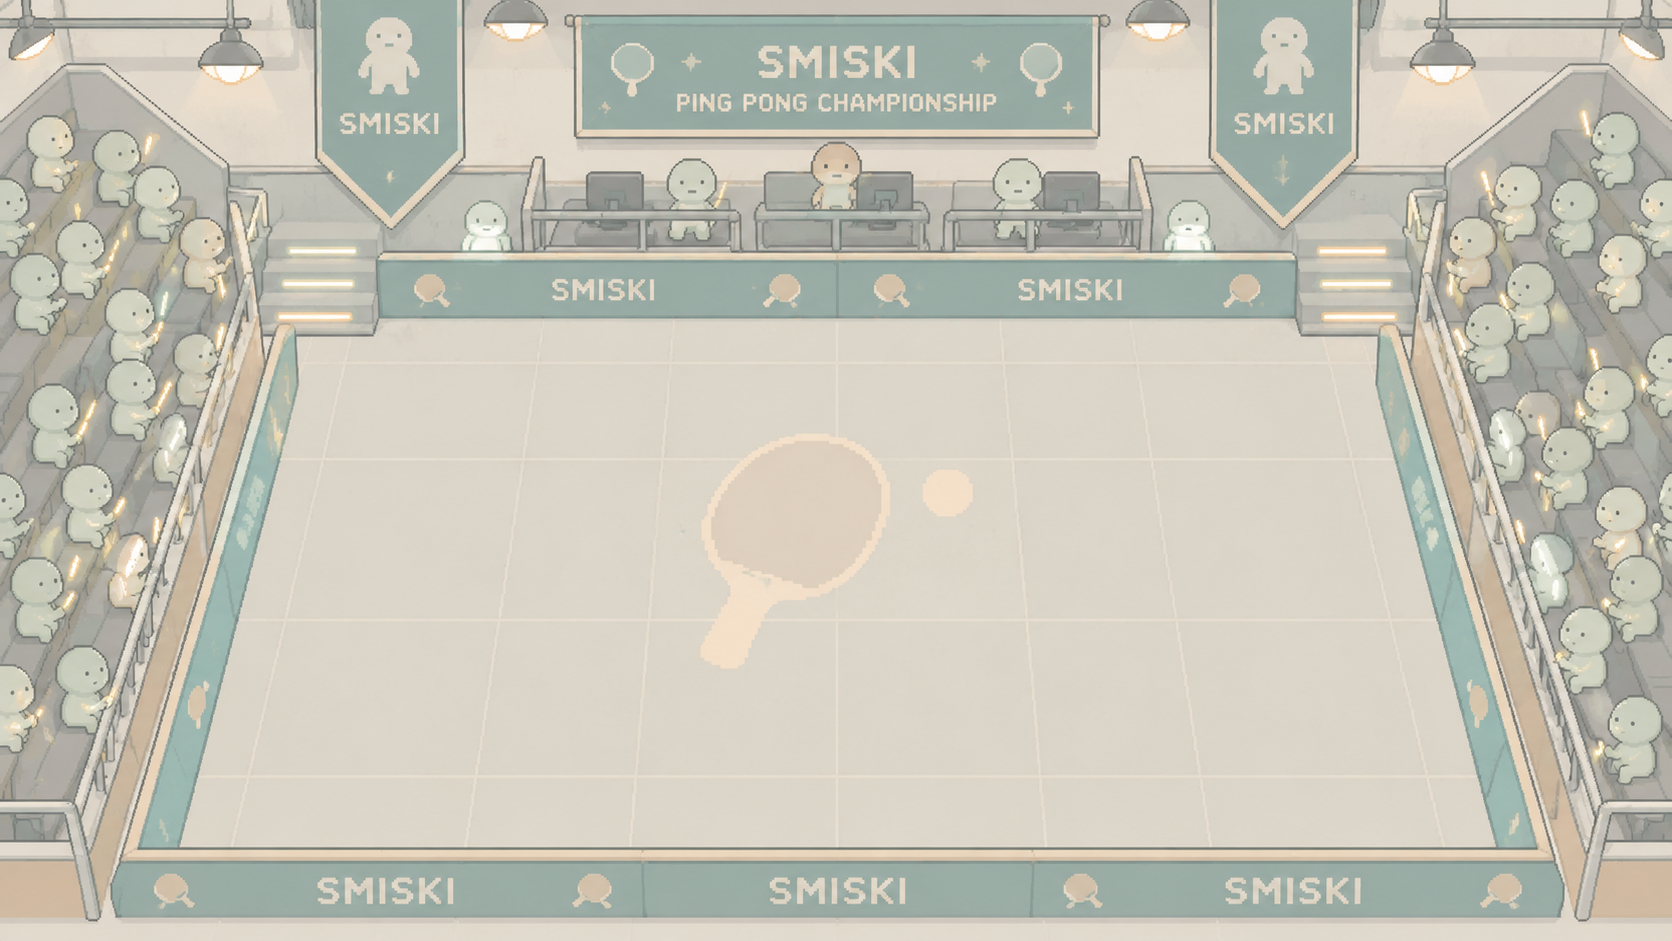
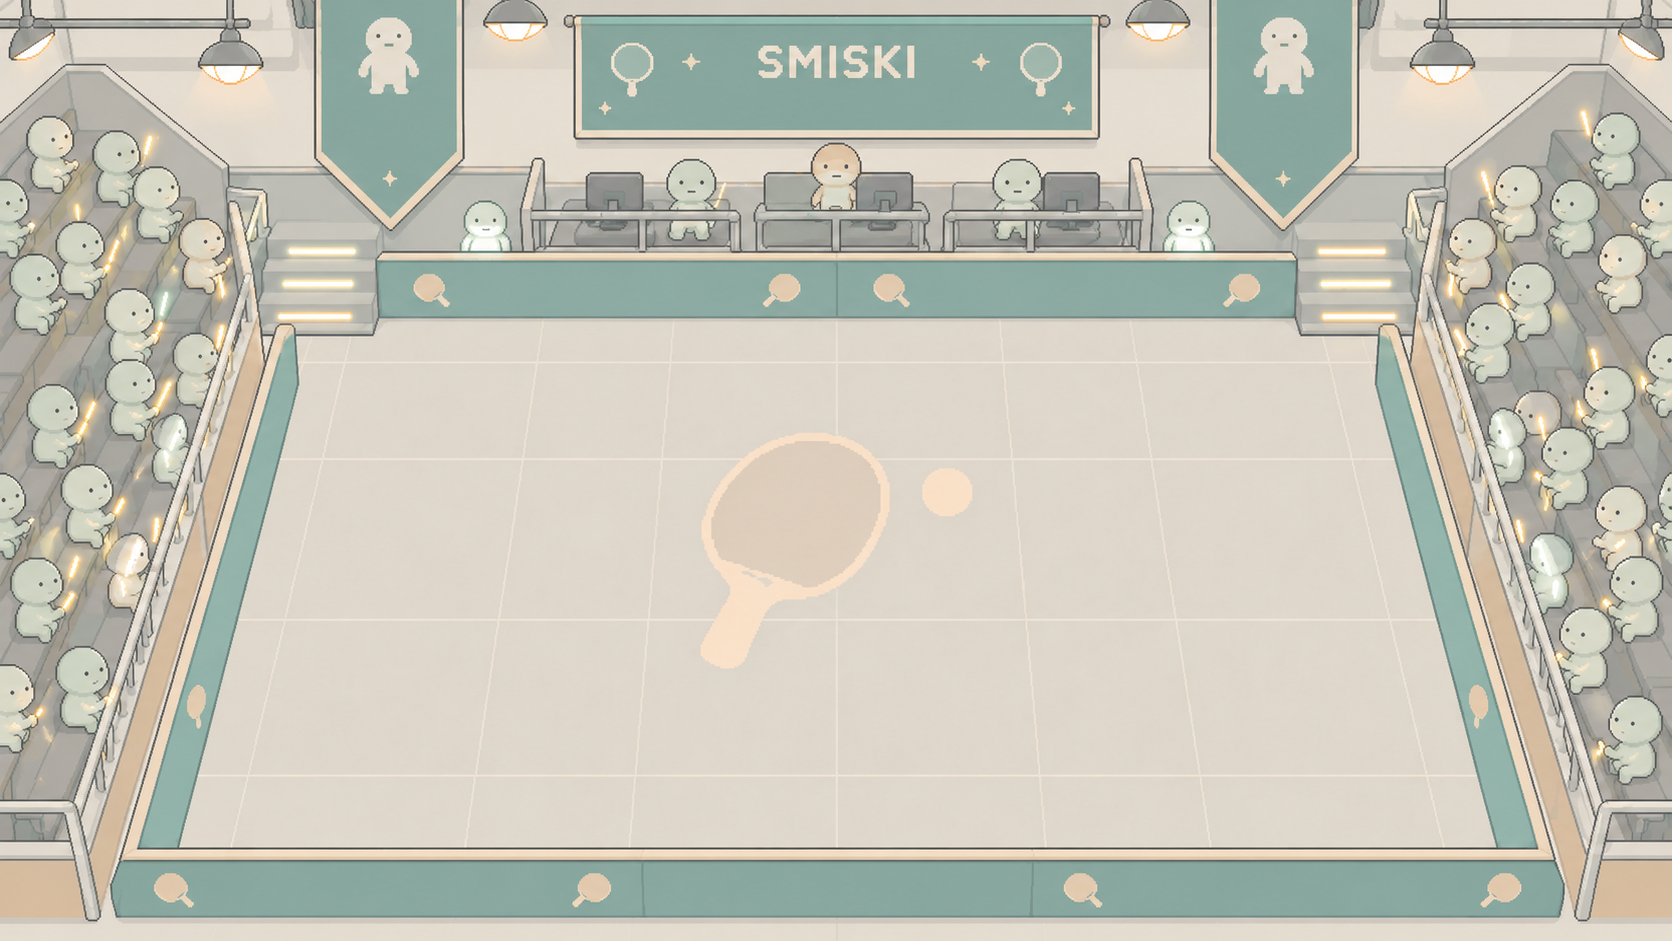
table tennis background fixes

diff --git a/web/court.js b/web/court.js
@@ -26,13 +26,13 @@ function drawRhythm(ctx, player, center, tick) {
     player.grade?.startsWith('Very') ? '#a34239' : '#945d13';
   if (feedback) {
     ctx.fillStyle = color; ctx.font = 'bold 18px system-ui';
-    ctx.fillText(player.superSmash ? 'Supersmash' : player.grade, center, 125);
+    ctx.fillText(player.superSmash ? 'Supersmash' : player.grade, center, 178);
   }
   ctx.fillStyle = '#31463c'; ctx.font = 'bold 15px system-ui';
-  ctx.fillText(player.charge === 3 ? 'Supersmash ready' : 'Smash  ' + player.charge + ' / 3', center, 465);
+  ctx.fillText(player.charge === 3 ? 'Supersmash ready' : 'Smash  ' + player.charge + ' / 3', center, 471);
   for (let i = 0; i < 3; i++) {
     ctx.fillStyle = i < player.charge ? '#d7a11e' : '#cdd5cb';
-    ctx.beginPath(); ctx.roundRect(center - 58 + i * 40, 474, 36, 9, 4); ctx.fill();
+    ctx.beginPath(); ctx.roundRect(center - 58 + i * 40, 480, 36, 9, 4); ctx.fill();
   }
 }
 
@@ -41,7 +41,7 @@ function drawCourt(ctx, state) {
   document.getElementById('tennisStadium').classList.toggle('cheering',
     hasScore && (state.pause > 0 || state.winner !== null));
   ctx.clearRect(0, 0, 760, 500);
-  ctx.fillStyle = '#b5b9af'; ctx.fillRect(379, 10, 2, 478);
+  ctx.fillStyle = '#b5b9af'; ctx.fillRect(379, 155, 2, 333);
   const travel = Math.min(1.12, state.flight / state.duration);
   const depth = state.hitter === 0 ? travel : 1 - travel;
   const lateral = state.from + (state.to - state.from) * Math.min(1, travel);
@@ -50,7 +50,7 @@ function drawCourt(ctx, state) {
     const direction = side ? -1 : 1;
     function project(x, z) {
       const d = side ? 1 - z : z;
-      return [190 + side * 380 + direction * x * (156 - 76 * d), 405 - 230 * d];
+      return [190 + side * 380 + direction * x * (156 - 76 * d), 417 - 230 * d];
     }
     function line(a, b, color, width) {
       ctx.beginPath(); ctx.moveTo(...a); ctx.lineTo(...b);

diff --git a/web/lobby.css b/web/lobby.css
@@ -472,7 +472,11 @@ body.game-host.pogo-park::before {
   grid-template-columns: 19% minmax(0, 1fr) 19%;
   column-gap: 0;
 }
-.game-host.tennis-stadium #arena { grid-column: 2; }
+.game-host.tennis-stadium #arena {
+  grid-column: 2;
+  position: relative;
+  top: clamp(-32px, -4dvh, -12px);
+}
 .game-host.tennis-stadium #gameHud {
   grid-column: 3;
   min-width: 0;

diff --git a/web/race.js b/web/race.js
@@ -331,7 +331,7 @@ function display() {
     }
     el('raceInfo').textContent = !host && !myCar() && state.winner === null ? 'Waiting for next round' : '';
     el('scores').textContent = '';
-    el('notice').textContent = state.notice;
+    el('notice').textContent = '';
     return;
   }
   const car = myCar();

diff --git a/HANDOFF.md b/HANDOFF.md
@@ -1,35 +1,32 @@
 # Smiski Bounce Party handoff
 
-## Resume here: Minigame backgrounds
+## Resume here: Polish the backgrounds and minigames
 
-The next session is for experimenting with backgrounds in Bumper Cars, Table Tennis and Pogo Race. Pogo now has a spring pixel park experiment (details below); Bumper Cars and Tennis have no new theme selected. The checkout was clean at `3e6948a` before this handoff edit. Run commands from the `hackhaven` directory and consult `AGENTS.md` for the palette and player identities.
+This handoff was updated on November 15, 2026. **This checkout is already on `alvin-background-branch` at `aafdbef` (background v1), with the polish below uncommitted.** Continue in this checkout; no additional worktree is needed. Main at `3e6948a` has the earlier visuals. Consult `AGENTS.md` for the original typography, branding and player colors.
 
-All three games share the host’s 760 × 500 canvas, `#arena`. For scenery inside the playfield, draw it immediately after the renderer clears the canvas. For scenery around the playfield, look at `body.in-match::before` in `web/lobby.css`. That rule also covers calibration and phone controllers. Scope changes to the host and the intended game if those screens should keep their ivory background. Home and lobby already have a bedroom backdrop.
+Start with a host playthrough from countdown to results and back to the lobby. The earlier checks covered simulation rules and some layout calculations. The latest visual changes still need an in-game check, especially at the 1263 × 631 host size used for feedback.
 
-| Game | Where to experiment | What to check in play |
+| Game | Current design on the background branch | What to check next |
 | --- | --- | --- |
-| Bumper Cars | `web/race.js`: `paintTrampoline()` builds a cached surface. Add static scenery before the trampoline legs and rim, or draw moving scenery in `draw()` before compositing the trampoline. | The rim, blue nitro plume and ring-out marker should stay visible. |
-| Table Tennis | `web/court.js`: `drawCourt()` draws the center divider and two views of the same court. Paint the backdrop before the divider. | Follow the ball and Supersmash flame on both halves and check the timing labels. |
-| Pogo Race | `web/pogo.js`: `drawTrack()` paints the shared spring park SVG, animated birds and scrolling stone lanes before riders. Use its camera mapping for scenery anchored to the course. | Check a spread-out four-player race, Burst wind trails, distance signs and the finish flag. |
+| Pogo Race | One spring Central Park scene with flying birds, Bow Bridge and full-width cobblestone lanes. Both bridge approach paths were removed. Rounded distance signs enter beside the leaderboard. Rider names sit 4 px from the left edge. Art lives in `web/park-backdrop.svg`, layout in `web/lobby.css` and `web/pogo.js`. | Try two and four riders through a Burst and the finish. Watch the first lane against the lake as the window resizes, names during jumps, and signs at the leaderboard edge. |
+| Table Tennis | The supplied championship image is `web/tennis-stadium.png`. The two court views sit between the stands. Usernames sit on the pale floor above each table. Spectators bob during rallies and cheer on points. See `web/court.js` and `web/lobby.css`. | Play a point with two phones. Check name clearance, timing feedback, ball visibility and crowd motion, including reduced motion. |
+| Bumper Cars | The trampoline sits on a 16:9 grass field with small, irregular patches and lighter grass behind the title. Its 76 px legs have rubber feet, contact shadows and a broader deck shadow. See `web/trampoline-field.svg` and `paintTrampoline()` in `web/race.js`. | Look first at the feet and shadows on a short host screen. Check clipping, title contrast and whether a ring-out or boost remains easy to follow near the rim. |
 
-For a first experiment, change one renderer, play through its countdown and winner card, then return to the lobby. Put any new image in `web/` and register its exact public path and MIME type in `server.js`.
+Host music and event cues already exist in `web/audio.js`. The standard UI and branding are the visual baseline for all three games.
 
-## Pogo spring park experiment (November 15)
+### Latest polish pass (November 15)
 
-Pogo Race now uses a pixel-art Central Park-inspired spring theme. `web/park-backdrop.svg` supplies the skyline, blossom trees, flowers, lawn and benches, shared by the arena and full-page background. `drawTrack()` paints camera-anchored stone pavers, pixel birds, park distance signs and rider charge plates. The existing 50 m signs, finish checks and Burst trails remain. Birds respect reduced motion. `pogo-park` is toggled with match state, so the theme clears on return to lobby; the phone controller and results also receive matching park styling. The SVG route requires a server restart.
-
-Validation: 27 renderer scenarios checked 2–4 players, spread camera, Burst and finish with finite coordinates and balanced canvas state. All 3 focused Pogo tests and 14 gameplay/motion tests passed; the existing lobby integration test timed out. Browser visual QA remains outstanding: the in-app browser could not reach the separate development server on 3011, and native Chrome access was denied. Check countdown, four spread-out riders, Burst, finish, results, narrow phone and return to lobby before calling visual QA complete.
-
-## Current audio and effects
-
-The host randomly selects between Fireside Chill and Lobby Music 2 in the lobby, and Game Music 2–4 during play. `web/audio.js` handles playback and event cues. Super Boost chimes when charged and whooshes on use. Supersmash booms on paddle contact. Pogo Burst has a spring and coin chime. Phone vibration code was removed at the owner’s request.
-
+- Bumper Cars now sizes its host canvas using its actual 760 × 540 aspect ratio. The former 760 × 500 sizing allowance made it taller than the available short-screen space, reducing clearance beneath the feet and shadows.
+- Tennis balls now have an ivory surround, dark edge and small highlight for contrast on the brown table and pale floor. Supersmash balls and trails are pink, and all three charge segments turn pink when ready.
+- Tennis names now sit on ivory strips with the player's persistent slot-color marker, including when the host selects a pair from three or four phones.
+- All 14 simulation/motion tests pass. The lobby integration test also passes when run outside the sandbox; inside the sandbox, its initial Socket.IO connection fails with `xhr poll error` and the test times out. No room/server changes were needed.
+- Visual QA is still pending: the in-app browser lost its tab connection before a playthrough could begin. Check these changes at 1263 × 631 and on phones, then complete the game-specific playthroughs listed above. No physical motion or reduced-motion browser check was completed in this pass.
 
 ## Pogo Race today
 
 Two to four phones can pump by tapping **Pump** or by enabling motion and moving the phone up and down. All riders charge and jump together. Each cycle has 1.9 seconds to charge and 0.5 seconds in the air. Each jump travels 4 m plus 2 m per accepted pump. Seven pumps fill the meter and add a 5 m burst, for a maximum jump of 23 m. Distances and standings update together on landing. Once a rider reaches 350 m, the greatest landed distance wins; equal leaders share the win.
 
-The current course scrolls past hills and widens when riders spread out. The bed theme was reverted. Lane ticks, 50 m signs, the vertical checkered finish and the flag arrow starting at 250 m are in place. The extra game canvas frame stays removed.
+The course camera widens when riders spread out. Lane ticks, 50 m signs, the vertical checkered finish and the flag arrow starting at 250 m are in place. The extra game canvas frame stays removed.
 
 - `web/pogo.js` contains the simulation, motion detector, six rider poses and track renderer. The sprite sheet is `web/pogo-riders.png`.
 - `web/pump.js` handles phone input and motion permission. Inputs carry a round number so a delayed pump cannot charge the next jump.
@@ -40,7 +37,7 @@ The current course scrolls past hills and widens when riders spread out. The bed
 
 The laptop hosts a room. Two to four phones join by QR or four-letter code. Each player keeps their nickname and slot color (green, blue, coral red or purple) through reconnects. Use matte ivory, dusty teal, sand and warm gray for scenery.
 
-Home and lobby use a gently animated bedroom backdrop and a frosted-glass player stage. Players bounce on individual trampolines. Four form a diamond, and each phone highlights its own player. The host lobby stacks the three game buttons beneath the QR card. The host wordmark returns an active game to the room lobby, then opens home from the lobby. Pogo uses the spring pixel park; the other games and tennis calibration use plain ivory backgrounds.
+Home and lobby use a gently animated bedroom backdrop and a frosted-glass player stage. Players bounce on individual trampolines. Four form a diamond, and each phone highlights its own player. The host lobby stacks the three game buttons beneath the QR card. The host wordmark returns an active game to the room lobby, then opens home from the lobby. Tennis calibration uses the shared ivory UI.
 
 All three games show a large 3–2–1 countdown on the host and phones. At the finish, the winner’s sprite moves into a card while the playfield remains visible through an ivory backdrop. The card pops with confetti, then moves left as final standings enter from the right. Narrow screens stack the card above standings. Ties show all winners. Reduced-motion mode presents the settled result. The host can rematch or return to the lobby.
 
@@ -54,12 +51,12 @@ The host shows two brown tables with a divider. Timing feedback uses words: Very
 
 ## Run and verify
 
-From the checkout, use Node 22+, `npm ci`, `npm start` and `npm test`. The default port is 3000. The last public demo used **3005** and this [temporary HTTPS lobby](https://tiffany-damages-carried-weekend.trycloudflare.com). Check the link before sharing it again. For a replacement tunnel to a running server on 3005:
+From the checkout, use Node 22+, `npm ci`, `npm start` and `npm test`. The default port is 3000. The last verified preview ran on port **3022** at [this temporary HTTPS lobby](https://lane-namespace-pct-brother.trycloudflare.com/). Quick Tunnel addresses expire. Check the lobby and multiplayer connection before sharing. For a replacement tunnel to a running server on 3022:
 
 ```powershell
-& 'C:\Program Files (x86)\cloudflared\cloudflared.exe' tunnel --url http://127.0.0.1:3005
+& 'C:\Program Files (x86)\cloudflared\cloudflared.exe' tunnel --url http://127.0.0.1:3022
 ```
 
 `server.js` owns rooms, relays Socket.IO events and explicitly lists public asset routes. Browser files are read from disk, but server-side changes require restarting the process behind the demo tunnel. Restarting expires existing rooms. Refresh host and phones after client changes. Use trusted HTTPS to test physical motion.
 
-The latest focused run passed all 11 Bumper Cars, Pogo and Tennis simulation tests after the vibration rollback. The lobby integration test timed out in an earlier run. Background changes need a visual check on the host, including the countdown and results overlay.
+The latest focused run passed all 3 Pogo, 4 tennis, 4 bumper-car and 3 motion tests. The lobby integration test passed separately outside the sandbox. Recheck the current working branch before publishing new changes.
